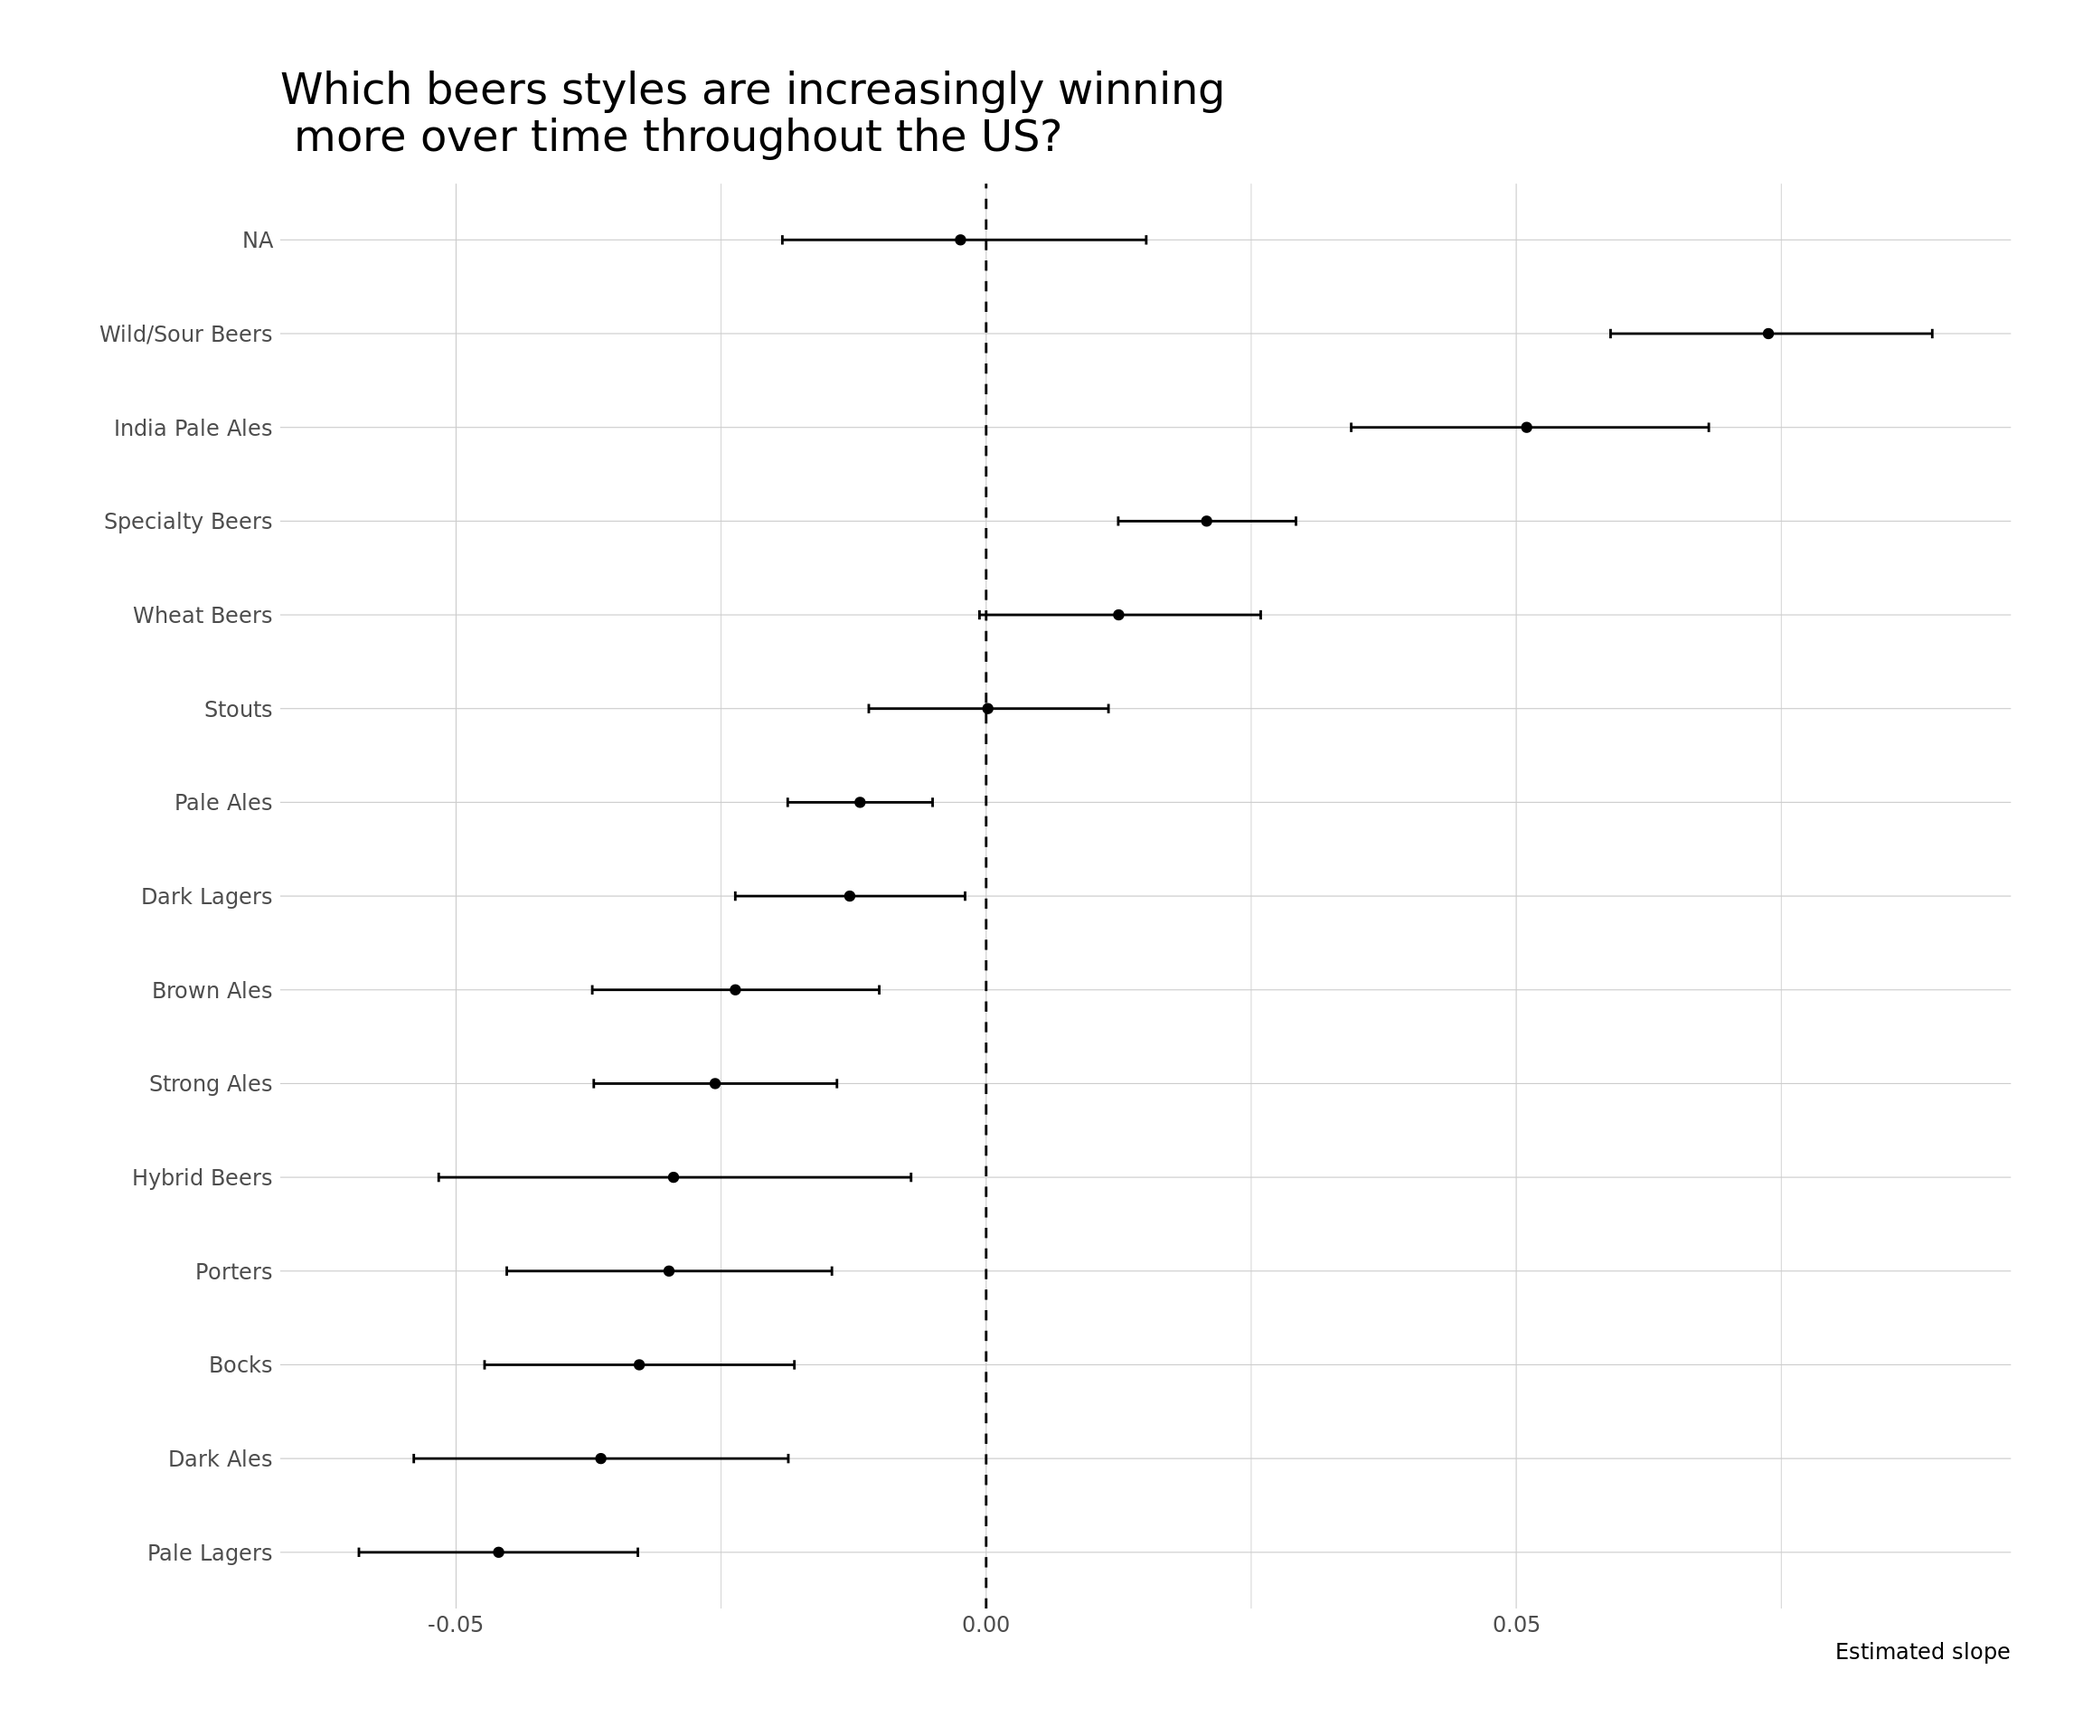
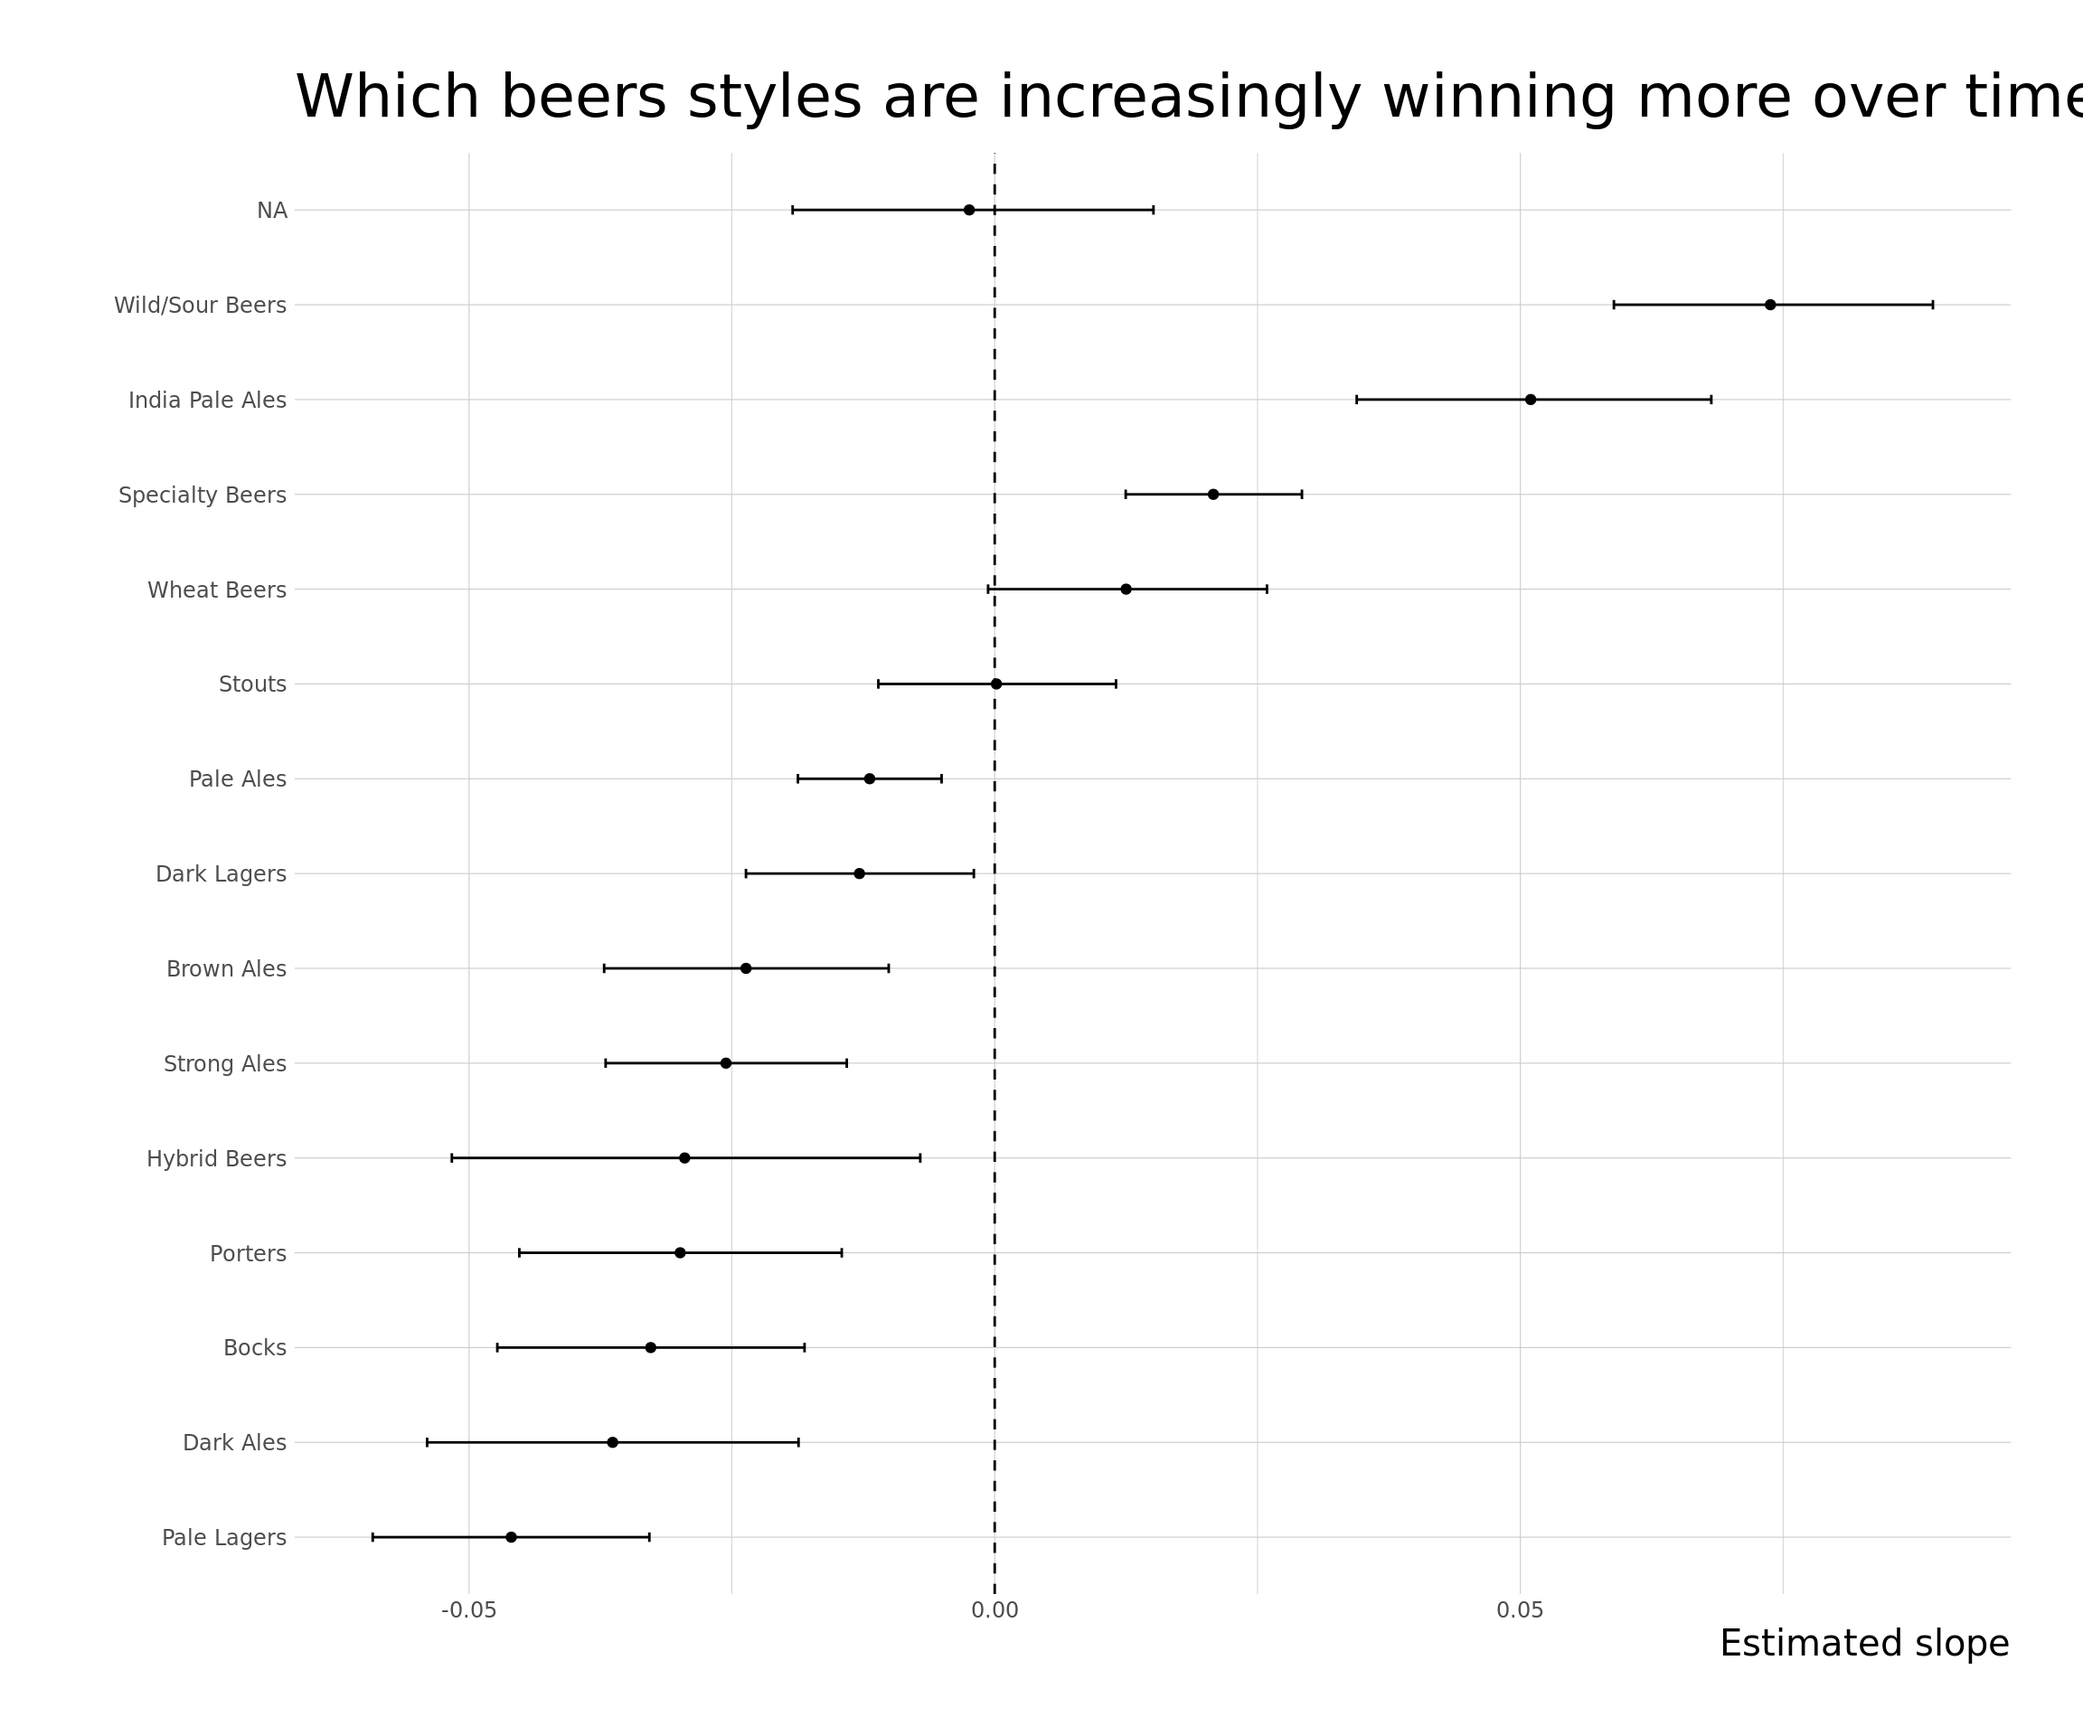
compare plots

diff --git a/content/post/2020-10-20-great-american-beer-festival/index.html b/content/post/2020-10-20-great-american-beer-festival/index.html
@@ -192,10 +192,10 @@ over_under &lt;- by_year_style %&gt;%
   geom_errorbarh(aes(xmin = conf.low, xmax = conf.high), height = .1) +
   theme_bw() +
   labs(x = &quot;Estimated slope&quot;,
-       title = &quot;Which beers styles are increasingly winning\n more over time throughout the US?&quot;,
+       title = &quot;Which beers styles are increasingly winning more over time throughout the US?&quot;,
        y = &quot;&quot;) +
   theme(text = element_text(size = 15)) +
-  theme_ipsum_ps()</code></pre>
+  theme_ipsum_ps(axis_title_size = 15, plot_title_size = 25)</code></pre>
 <p><img src="index_files/figure-html/unnamed-chunk-6-1.png" width="1152" /></p>
 <pre class="r"><code>by_year_state_style &lt;- beer_awards_joined %&gt;%
   add_count(year, name = &quot;year_total&quot;) %&gt;%
